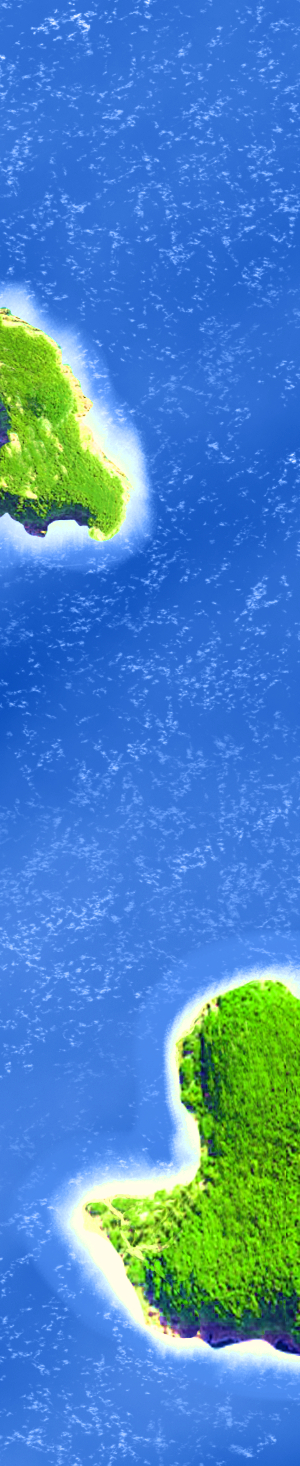
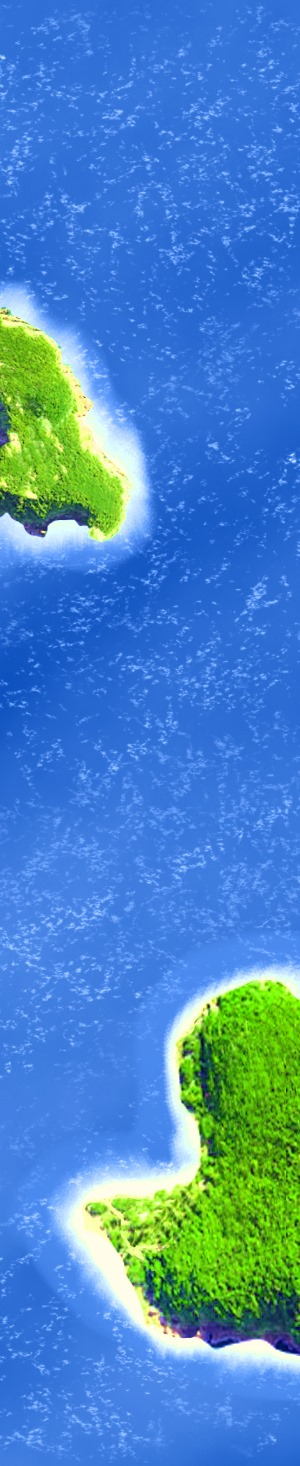
Added all background for wolrds and reset offset at transitioning

diff --git a/Assets/Scripts/Game/EnemySpawner.cs b/Assets/Scripts/Game/EnemySpawner.cs
@@ -81,7 +81,10 @@ public class EnemySpawner : MonoBehaviour {
 			transfer-=Time.deltaTime*2;
 			float t=Mathf.Abs(transfer);
 			bg.color=new Color(t,t,t);
-			if(transfer<0 && bg.mainTexture!=mundos[worldID]) bg.mainTexture= mundos[worldID];
+			if(transfer<0 && bg.mainTexture!=mundos[worldID]){
+				bg.mainTexture= mundos[worldID];
+				bg.mainTextureOffset=Vector2.zero;
+			}
 			if(transfer<-1)transfer=1;
 		}
 	}
